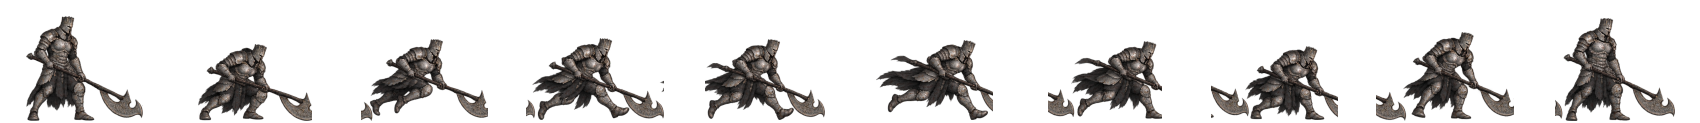
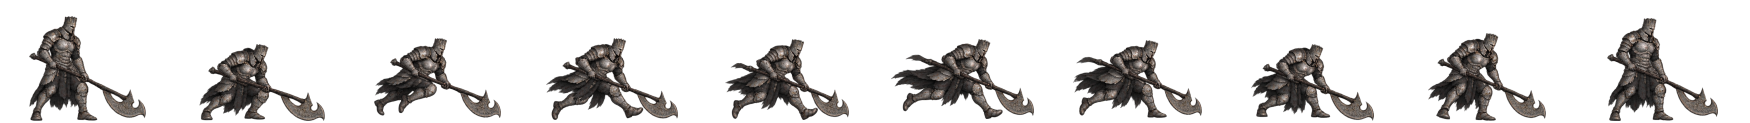
fix: isolate Gundyr attack sprites and halberd

Changed region(s): [[0.4988, 0.1463, 0.9976, 0.9756], [0.0, 0.1463, 0.4676, 1.0]]

diff --git a/prepare_independent_sprites.py b/prepare_independent_sprites.py
@@ -50,6 +50,42 @@ SOURCES = {
     ),
 }
 
+BOSS_ATTACKS = frozenset((
+    "sweep_a", "sweep_b", "thrust_a", "thrust_b", "slam", "special"
+))
+
+# The source paintings overlap in a few places, so some neighboring weapons
+# are already fused to a pose before any grid slicing. These small regions are
+# the *other* pose's weapon/leg, measured in the exported cell's coordinates.
+# Keep them explicit: a broad automatic crop would also remove the real axe.
+BOSS_SHEET_BLEED = {
+    ("sweep_a", 5): ((145, 120, 49, 36),),
+    ("sweep_a", 6): ((145, 120, 49, 36),),
+    ("sweep_b", 0): ((128, 0, 55, 72),),
+    ("sweep_b", 1): ((0, 88, 64, 36), (160, 0, 23, 80)),
+    ("sweep_b", 2): ((0, 105, 30, 19), (145, 100, 38, 24)),
+    ("sweep_b", 3): ((0, 106, 61, 18),),
+    ("sweep_b", 5): ((147, 100, 36, 24),),
+    ("sweep_b", 6): ((147, 100, 36, 24),),
+    ("thrust_a", 1): ((142, 0, 52, 64),),
+    ("thrust_b", 1): ((0, 119, 81, 42),),
+    ("thrust_b", 3): ((150, 120, 83, 41),),
+    ("thrust_b", 6): ((158, 119, 75, 42),),
+    ("thrust_b", 7): ((0, 80, 20, 81),),
+}
+
+# When silhouettes actually overlap, no crop can recover the hidden pixels.
+# Reuse the closest intact attack pose rather than displaying two axe heads.
+BOSS_FRAME_REPLACEMENTS = {
+    ("sweep_a", 6): 5,
+    ("sweep_b", 6): 5,
+    ("sweep_b", 7): 8,
+    ("thrust_a", 3): 4,
+    ("thrust_a", 6): 8,
+    ("thrust_a", 7): 8,
+    ("thrust_b", 4): 5,
+}
+
 
 def opaque_bbox(surface: pygame.Surface) -> pygame.Rect:
     mask = pygame.mask.from_surface(surface, ALPHA_THRESHOLD)
@@ -131,15 +167,99 @@ def split_grid(sheet: pygame.Surface, *, separate_rows: bool = False):
     return frames, metadata
 
 
+def split_connected_poses(sheet: pygame.Surface):
+    """Keep each boss and halberd together when their horizontal ranges overlap."""
+    width = sheet.get_width()
+    _, y_boundaries = grid_boundaries(sheet)
+    frames = []
+    metadata = []
+
+    for row, (top, bottom) in enumerate(zip(y_boundaries, y_boundaries[1:])):
+        region = sheet.subsurface((0, top, width, bottom - top))
+        mask = pygame.mask.from_surface(region, ALPHA_THRESHOLD)
+        components = sorted(
+            mask.connected_components(700),
+            key=lambda component: component.get_bounding_rects()[0].left,
+        )
+        if len(components) not in (GRID_COLUMNS - 1, GRID_COLUMNS):
+            raise RuntimeError(
+                f"boss row {row + 1}: expected 4 or 5 figures, found {len(components)}"
+            )
+
+        joined = None
+        if len(components) == GRID_COLUMNS - 1:
+            joined = max(
+                range(len(components)),
+                key=lambda index: components[index].get_bounding_rects()[0].width,
+            )
+            joined_width = components[joined].get_bounding_rects()[0].width
+            if joined_width < width // 3:
+                raise RuntimeError(f"boss row {row + 1}: cannot locate touching figures")
+
+        source_alpha = pygame.surfarray.array_alpha(region)
+        selections = []
+        for index, component in enumerate(components):
+            selected = pygame.surfarray.array_alpha(
+                component.to_surface(
+                    setcolor=(255, 255, 255, 255),
+                    unsetcolor=(0, 0, 0, 0),
+                )
+            ) > 0
+            if index != joined:
+                selections.append(selected)
+                continue
+
+            # A few generated poses touch at the staff. Cut only that narrow
+            # contact, keeping every other pixel with its connected figure.
+            nominal = width * (index + 1) // GRID_COLUMNS
+            radius = width // 16
+            column_ink = (source_alpha > ALPHA_THRESHOLD).sum(axis=1)
+            cut = min(
+                range(nominal - radius, nominal + radius + 1),
+                key=lambda x: (column_ink[x], abs(x - nominal)),
+            )
+            left = selected.copy()
+            left[cut:, :] = False
+            right = selected.copy()
+            right[:cut, :] = False
+            selections.extend((left, right))
+
+        if len(selections) != GRID_COLUMNS:
+            raise RuntimeError(f"boss row {row + 1}: incomplete pose separation")
+
+        for column in range(GRID_COLUMNS):
+            selected = selections[column]
+            # Retain the low-alpha outline around each connected silhouette.
+            outline = selected.copy()
+            outline[1:, :] |= selected[:-1, :]
+            outline[:-1, :] |= selected[1:, :]
+            outline[:, 1:] |= selected[:, :-1]
+            outline[:, :-1] |= selected[:, 1:]
+            frame = region.copy()
+            alpha = pygame.surfarray.pixels_alpha(frame)
+            alpha[~outline] = 0
+            del alpha
+            bbox = opaque_bbox(frame)
+            if not bbox.width or not bbox.height:
+                raise RuntimeError(f"empty boss pose at row {row + 1}, column {column + 1}")
+            frames.append(frame)
+            metadata.append((bbox, row))
+
+    return frames, metadata
+
+
 def build_strip(prefix: str, animation: str, target_neutral_height: int):
     source_prefix = "boss" if prefix == "gundyr" else prefix
     source_path = SOURCE_DIR / f"{source_prefix}_{animation}.png"
     sheet = pygame.image.load(source_path).convert_alpha()
     # The lower-row thrusts in heavy_b extend across the upper row's cuts.
     # Find independent transparent gaps so each blade remains with its owner.
-    frames, metadata = split_grid(
-        sheet, separate_rows=prefix == "hero" and animation == "heavy_b"
-    )
+    if prefix == "gundyr" and animation in BOSS_ATTACKS:
+        frames, metadata = split_connected_poses(sheet)
+    else:
+        frames, metadata = split_grid(
+            sheet, separate_rows=prefix == "hero" and animation == "heavy_b"
+        )
 
     # Death ends in a deliberately short lying pose. Scale from the initial
     # standing frame so the armor remains the same size as the other strips.
@@ -171,6 +291,11 @@ def build_strip(prefix: str, animation: str, target_neutral_height: int):
             )
         )
 
+    if prefix == "gundyr":
+        for (attack, frame_index), replacement in BOSS_FRAME_REPLACEMENTS.items():
+            if animation == attack:
+                prepared[frame_index] = prepared[replacement]
+
     cell_width = (
         max(frame.get_width() for frame, _ in prepared)
         + HORIZONTAL_PADDING * 2
@@ -190,6 +315,10 @@ def build_strip(prefix: str, animation: str, target_neutral_height: int):
             baseline - lift - frame.get_height(),
         )
         isolated_cell.blit(frame, destination)
+
+        if prefix == "gundyr":
+            for rect in BOSS_SHEET_BLEED.get((animation, index), ()):
+                isolated_cell.fill((0, 0, 0, 0), rect)
 
         content = opaque_bbox(isolated_cell)
         if (

diff --git a/tests/test_sprite_slicing.py b/tests/test_sprite_slicing.py
@@ -10,6 +10,7 @@ import pygame
 
 from prepare_independent_sprites import (
     ALPHA_THRESHOLD,
+    BOSS_ATTACKS,
     OUTPUT_DIR,
     SAFETY_MARGIN,
     SOURCE_DIR,
@@ -27,7 +28,7 @@ def visible_fragments(frame):
     ]
 
 
-class HeavySwordSlicingTests(unittest.TestCase):
+class SpriteSlicingTests(unittest.TestCase):
     @classmethod
     def setUpClass(cls):
         pygame.init()
@@ -58,6 +59,30 @@ class HeavySwordSlicingTests(unittest.TestCase):
                 bounds = opaque_bbox(frame)
                 self.assertGreaterEqual(bounds.left, SAFETY_MARGIN)
                 self.assertLessEqual(bounds.right, cell_width - SAFETY_MARGIN)
+
+    def test_boss_attack_frames_keep_one_complete_figure_per_cell(self):
+        for animation in BOSS_ATTACKS:
+            with self.subTest(animation=animation):
+                strip = pygame.image.load(
+                    OUTPUT_DIR / f"gundyr_{animation}.png"
+                ).convert_alpha()
+                self.assertEqual(strip.get_width() % 10, 0)
+                cell_width = strip.get_width() // 10
+                distinct_frames = set()
+
+                for index in range(10):
+                    with self.subTest(animation=animation, frame=index + 1):
+                        frame = strip.subsurface(
+                            (index * cell_width, 0, cell_width, strip.get_height())
+                        )
+                        mask = pygame.mask.from_surface(frame, ALPHA_THRESHOLD)
+                        self.assertEqual(len(mask.connected_components(20)), 1)
+                        bounds = opaque_bbox(frame)
+                        self.assertGreaterEqual(bounds.left, SAFETY_MARGIN)
+                        self.assertLessEqual(bounds.right, cell_width - SAFETY_MARGIN)
+                        distinct_frames.add(pygame.image.tobytes(frame, "RGBA"))
+
+                self.assertGreaterEqual(len(distinct_frames), 7)
 
 
 if __name__ == "__main__":
